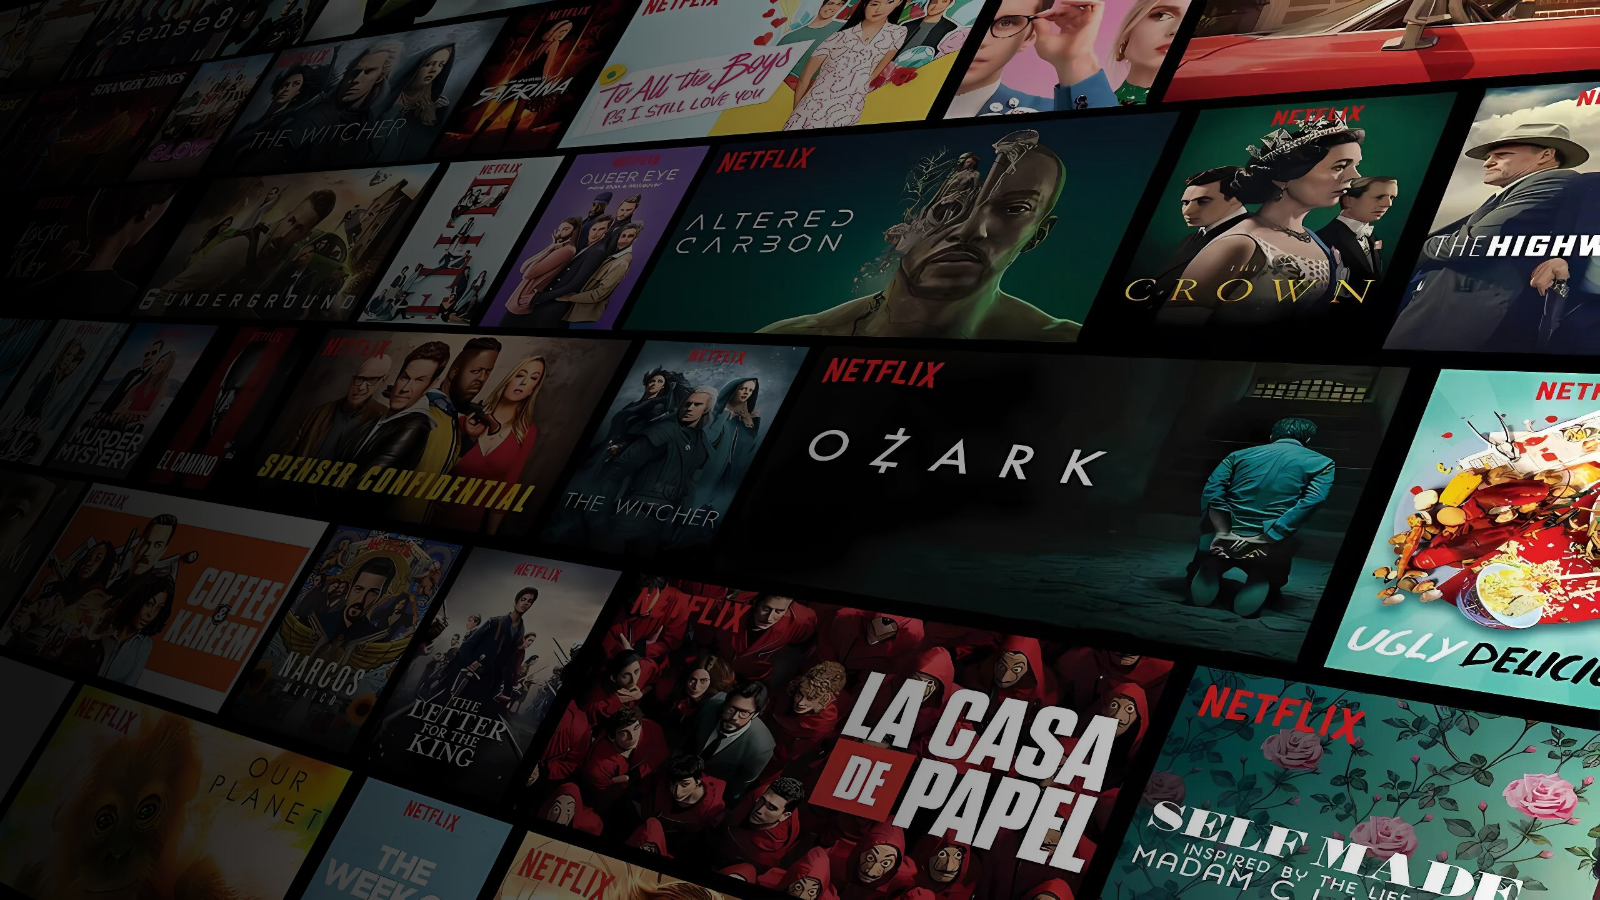
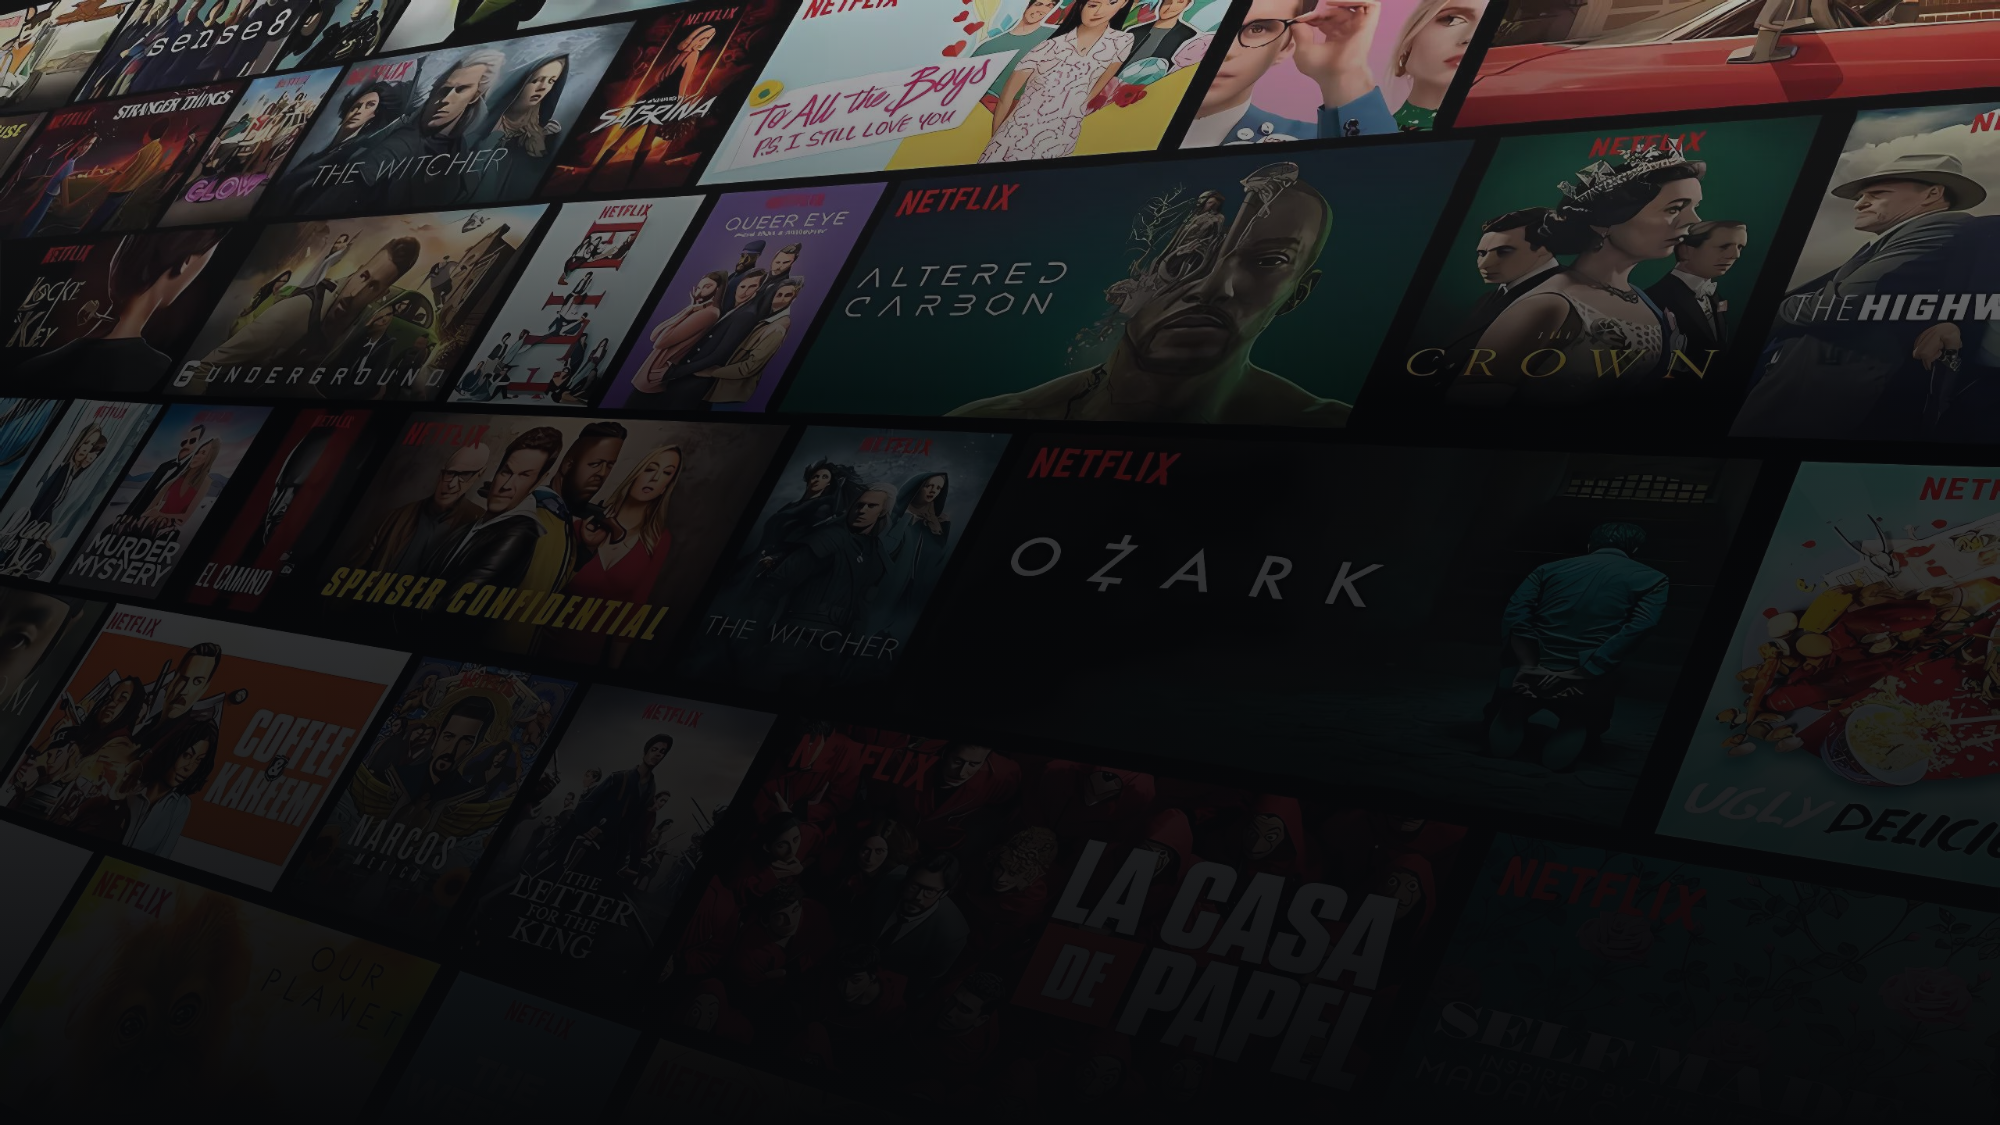
Added hero section title text, email input, and button. Stylized and updated header / nav bar. Changed hero section image.

diff --git a/style.css b/style.css
@@ -1,8 +1,11 @@
-html,body {
-    margin:0;
-    padding:0;
+html, body {
+    margin: 0;
+    padding: 0;
+    background-color: rgb(7,8,10);
 }
 
+
+/* HERO SECTION */
 .wildrobotimg {
     width: 100%;
     height: auto;
@@ -16,38 +19,138 @@ html,body {
     padding: 0;
 }
 
-.button-overlay button {
+.hero-title {
     position: absolute;
-    bottom: 0px;
-    left: 100px;
+    top: 45%;
+    left: 50%;
     transform: translate(-50%, -50%);
     padding: 20px 35px;
-    font-size: 25px;
+    font-size: 75px;
+    font-family: 'helvetica';
     font-weight: bold;
     margin: 0;
-    background-color: #201a00;
-    color: #ffd427;
-    border-radius: 5px;
+    color: #ffffff;
+    text-align: center;
+}
+
+.getstarted-button {
+    position: relative;
+    padding: 20px 35px;
+    font-size: 21px;
+    font-weight: bold;
+    font-family: 'helvetica';
+    margin: 0;
+    background-color: #ffaa21;
+    color: #111111;
+    border-radius: 50px;
     border: none;
 }
 
-h1 {
+.email-input {
+    position: relative;
+    right: 30px;
+    padding: 20px 35px;
+    font-size: 20px;
+    font-family: 'helvetica';
+    font-weight: bold;
+    margin: 0;
+    color: #ffffff;
+    border-radius: 50px;
+    backdrop-filter: blur(10px);
+    background-color: rgba(0, 0, 0, 0.246);
+    border: 2px solid rgba(255, 255, 255, 0.501);
+    width: 500px;
+}
+
+.hero-email {
+    position: absolute;
+    top: 53%;
+    left: 50%; 
+    transform: translate(-50%, -50%);
+    margin: 0;
+}
+
+/* HEADER / NAVIGATION BAR SECTION */
+.header-title {
     text-align: center;
     position: relative;
+    margin-top: 19px;
+    margin-right: 110px;
+    margin-left: 10px;
+    font-family: 'helvetica';
+    font-size: 24px;
+    color: #ffaa21;
+    font-weight: bold;
 }
 
 .header {
-    max-width: 800px; /* Adjust this value as needed */
-    height: 35px;
-    position: absolute; /* Keep it floating over the image */
-    top: 20px; /* Adjust this if needed to place it properly */
-    left: 50%; /* Move it to the center */
-    transform: translateX(-50%); /* Center it by shifting left */
-    background-color: white;
-    border-radius: 50px; /* Make it pill-shaped */
+    max-width: 1000px;
+    height: 50px;
+    position: fixed;
+    top: 15px;
+    left: 50%;
+    transform: translateX(-50%);
+    background-color: rgba(19, 23, 26, 0.65);
+    border-radius: 50px;
     display: flex;
-    justify-content: center; /* Center the content */
-    align-items: center; /* Vertically center items */
-    padding: 10px 20px; /* Adjust padding as needed */
-    box-shadow: 0 2px 10px rgba(0, 0, 0, 0.1); /* Optional: add shadow for better visibility */
+    justify-content: space-between;
+    align-items: center;
+    padding: 10px 30px;
+    z-index: 1000; 
+    gap: 20px;
+    backdrop-filter: blur(10px);
+    border: 2px solid rgba(255, 255, 255, 0.035);
 }
+
+.header button {
+    background-color: #fff7d5;
+    color: #251b00;
+    border: none;
+    padding: 10px 20px;
+    border-radius: 25px;
+    font-size: 15px;
+    font-weight: bold;
+    margin-right: -10px;
+    margin-left: 8px;
+}
+
+/* .search-bar input {
+    padding: 5px 10px;
+    border-radius: 25px;
+    border: none;
+}
+
+.search-bar button {
+    background-color: #fff7d5;
+    color: #644a00;
+    border: none;
+    padding: 5px 15px;
+    border-radius: 25px;
+    font-size: 15px;
+    font-weight: bold;
+    margin-left: 10px;
+} */
+
+
+.nav-link {
+    color: #fffdf6bb;
+    font-size: 16px;
+    text-decoration: none;
+    font-family: 'helvetica';
+}
+
+.nav-link:hover {
+    color: #fffef8;
+}
+
+h2 {
+    font-family: 'helvetica';
+    font-size: 24px;
+    color: #ffffff;
+    font-weight: bold;
+}
+
+.header-spacing {
+    margin-inline: 40px;
+}
+

diff --git a/index.html b/index.html
@@ -3,19 +3,70 @@
 <head>
     <meta charset="UTF-8">
     <meta name="viewport" content="width=device-width, initial-scale=1.0">
-    <title>MangoFlex</title>
+    <title>MANGOFLIX</title>
     <link rel="stylesheet" href="style.css">
 </head>
 <body>
     <div class="button-overlay">
         <img class="wildrobotimg" src="herosectionimg.png" alt="movie image">
-        <button>Login</button>
+        <h1 class="hero-title">Movies, TV Shows, and More</h1>
+        <p class="hero-text">Watch anywhere. Cancel anytime.</p>
+        <div class="hero-email">
+            <input class="email-input" type="email" placeholder="Email address">
+            <button class="getstarted-button">Get Started</button>
+        </div>
     </div>
     <div class="header">
-        <h1>MangoFlex</h1>
+        <h1 class="header-title">MANGOFLIX</h1>
+        <!-- <div class="search-bar">
+            <input type="text" placeholder="Search for movies">
+            <button>Search</button>
+        </div> -->
+        <a href="#featured-movies" class="nav-link">Featured</a>
+        <a href="#rent-movies" class="nav-link">Rent</a>
+        <a href="#popular-movies" class="nav-link">Popular</a>
+        <div class="header-spacing"></div>
         <button class="buttons" type="button" onclick="alert('Signed up')">Sign Up</button>
-        <button class="buttons" type="button" onclick="alert('Logged in')">Log in</button>
+        <button class="buttons" type="button" onclick="alert('Signed in')">Sign in</button>
     </div>
-    <h1>Movie</h1>
+    <h2>Popular Movies</h2>
+    <h2>Popular Movies</h2>
+    <h2>Popular Movies</h2>
+    <h2>Popular Movies</h2>
+    <h2>Popular Movies</h2>
+    <h2>Popular Movies</h2>
+    <h2>Popular Movies</h2>
+    <h2>Popular Movies</h2>
+    <h2>Popular Movies</h2>
+    <h2>Popular Movies</h2>
+    <h2>Popular Movies</h2>
+    <h2>Popular Movies</h2>
+    <h2>Popular Movies</h2>
+    <h2>Popular Movies</h2>
+    <h2>Popular Movies</h2>
+    <h2 id="rent-movies">RENT MOVIES</h2>
+    <h2>Popular Movies</h2>
+    <h2>Popular Movies</h2>
+    <h2>Popular Movies</h2>
+    <h2>Popular Movies</h2>
+    <h2>Popular Movies</h2>
+    <h2>Popular Movies</h2>
+    <h2>Popular Movies</h2>
+    <h2>Popular Movies</h2>
+    <h2>Popular Movies</h2>
+    <h2>Popular Movies</h2>
+    <h2>Popular Movies</h2>
+    <h2 id="popular-movies">POPULAR MOVIES</h2>
+    <h2>Popular Movies</h2>
+    <h2>Popular Movies</h2>
+    <h2>Popular Movies</h2>
+    <h2>Popular Movies</h2>
+    <h2>Popular Movies</h2>
+    <h2>Popular Movies</h2>
+    <h2>Popular Movies</h2>
+    <h2>Popular Movies</h2>
+    <h2>Popular Movies</h2>
+    <h2 id="featured-movies">Featured Movies</h2>
+
 </body>
 </html>
